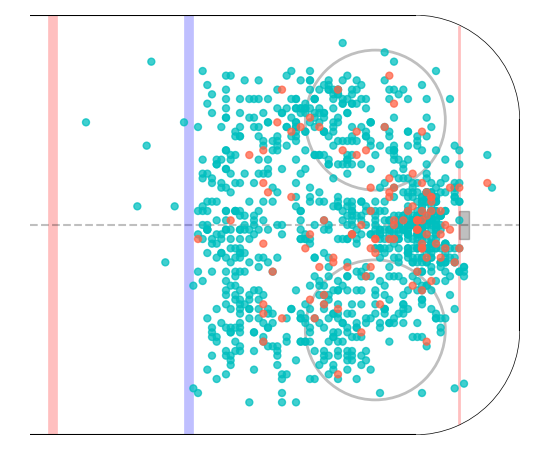
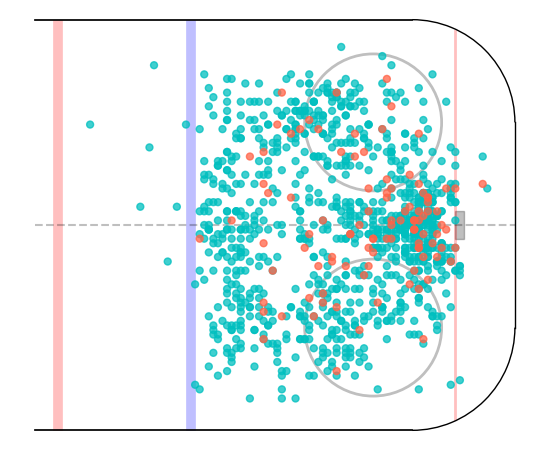
viz updates no-op

diff --git a/viz/viz.py b/viz/viz.py
@@ -23,11 +23,8 @@ def rink(ax):
         "goalline_y": 42.6,
     }
     kwargs = {"alpha": 0.25, "zorder": 0}
-    ax.set_xlim([params["boardsmin_x"], params["boardsmax_x"]])
-    ax.set_ylim([params["boards_y"] * -1, params["boards_y"]])
-    ax.axvline(params["centerline_x"], c="r", lw=7, **kwargs)
-    ax.axhline(params["centerline_y"], c="k", lw=1.5, ls="--", **kwargs)
-    ax.axvline(params["blueline_x"], c="b", lw=7, **kwargs)
+    ax.set_xlim([params["boardsmin_x"] - 1, params["boardsmax_x"] + 1])
+    ax.set_ylim([(params["boards_y"] * -1) - 1, params["boards_y"] + 1])
     ax.add_patch(patches.Rectangle(
         (params["goal_x"], params["goal_y"]),
         params["goal_width"],
@@ -44,35 +41,60 @@ def rink(ax):
             **kwargs,
         ))
         ax.add_patch(patches.Arc(
-            [params["boardscurve_x"], params["faceoff_y"] * z],
+            [params["boardscurve_x"] + 0.1, params["faceoff_y"] * z],
             params["boards_y"],
             params["boards_y"],
             angle=angle,
             theta1=270,
             theta2=0,
-            lw=0.5,
+            lw=1,
         ))
     xs = [
         lines.Line2D(
             [params["boardsmin_x"], params["boardscurve_x"]],
             [params["boards_y"], params["boards_y"]],
             c="k",
+            lw=1.25,
         ),
         lines.Line2D(
             [params["boardsmin_x"], params["boardscurve_x"]],
             [params["boards_y"] * -1, params["boards_y"] * -1],
             c="k",
+            lw=1.25,
         ),
         lines.Line2D(
             [params["boardsmax_x"], params["boardsmax_x"]],
             [params["faceoff_y"] * -1, params["faceoff_y"]],
             c="k",
+            lw=1,
         ),
         lines.Line2D(
             [params["goal_x"], params["goal_x"]],
             [params["goalline_y"] * -1, params["goalline_y"]],
             c="r",
             lw=2,
+            **kwargs,
+        ),
+        lines.Line2D(
+            [params["centerline_x"], params["centerline_x"]],
+            [(params["boards_y"] * -1) + 1, params["boards_y"] - 1.25],
+            c="r",
+            lw=7,
+            **kwargs,
+        ),
+        lines.Line2D(
+            [params["blueline_x"], params["blueline_x"]],
+            [(params["boards_y"] * -1) + 1, params["boards_y"] - 1.25],
+            c="b",
+            lw=7,
+            **kwargs,
+        ),
+        lines.Line2D(
+            [params["boardsmin_x"], params["boardsmax_x"]],
+            [params["centerline_y"], params["centerline_y"]],
+            c="k",
+            lw=1.5,
+            ls="--",
             **kwargs,
         ),
     ]
